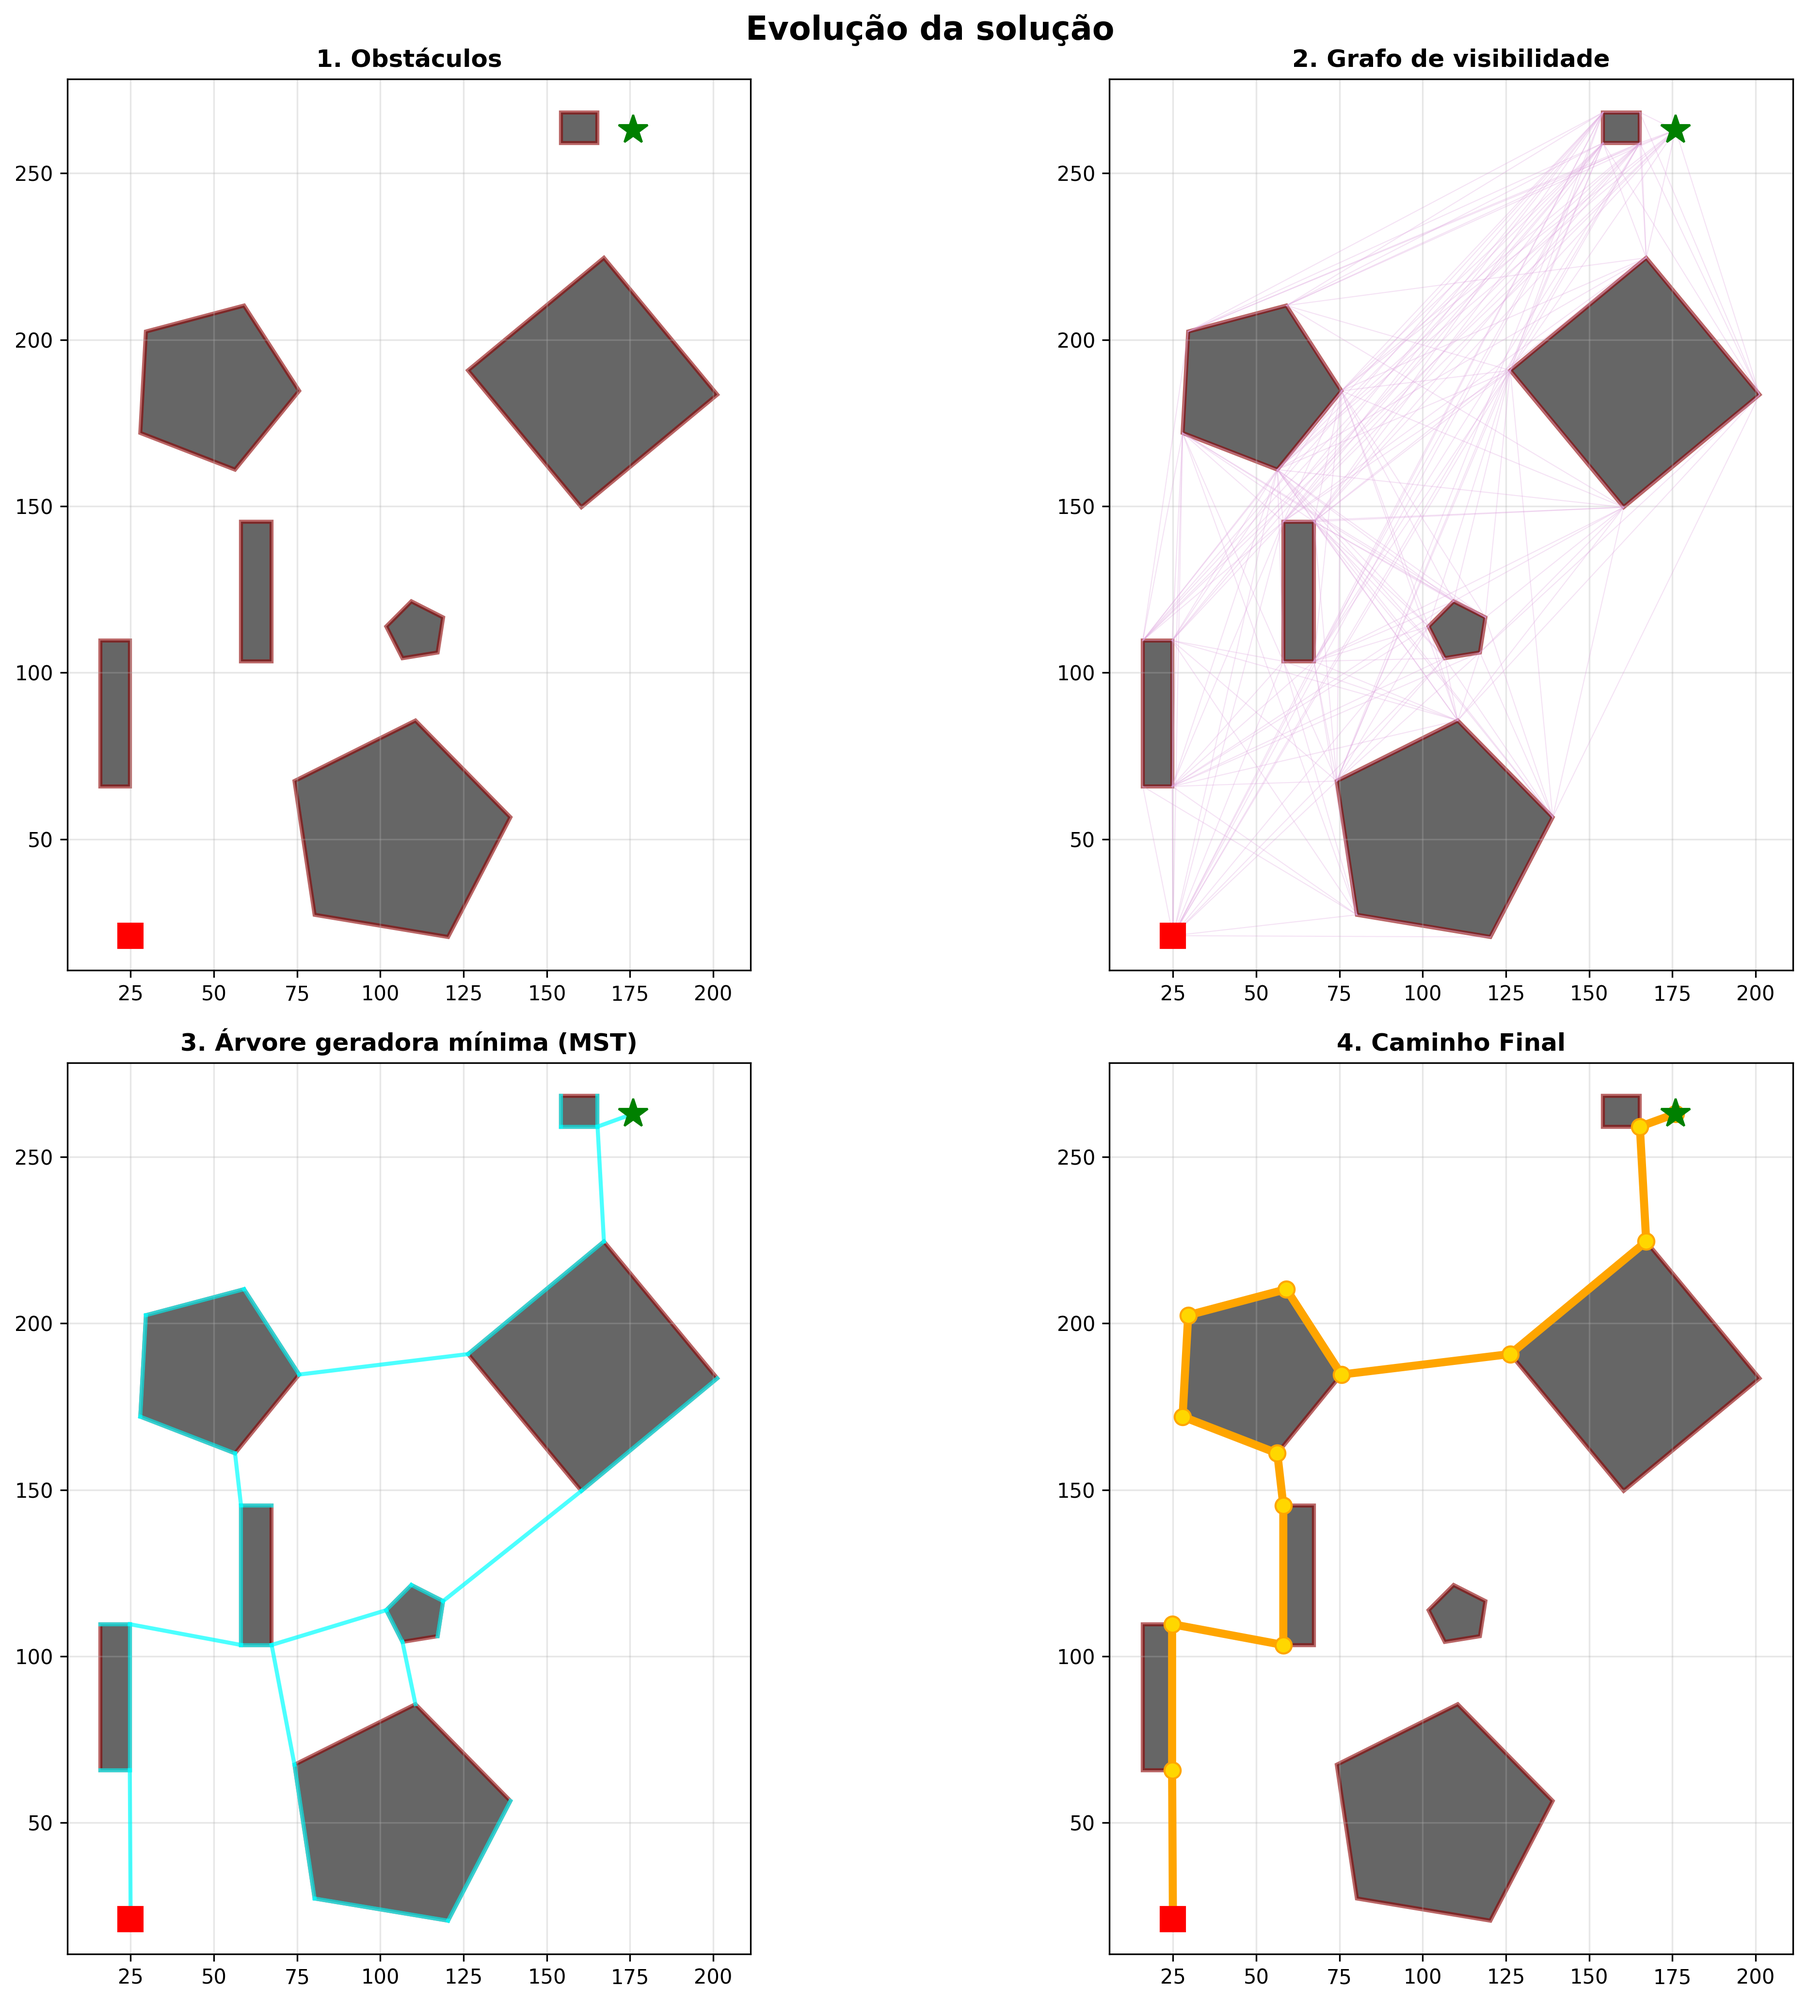
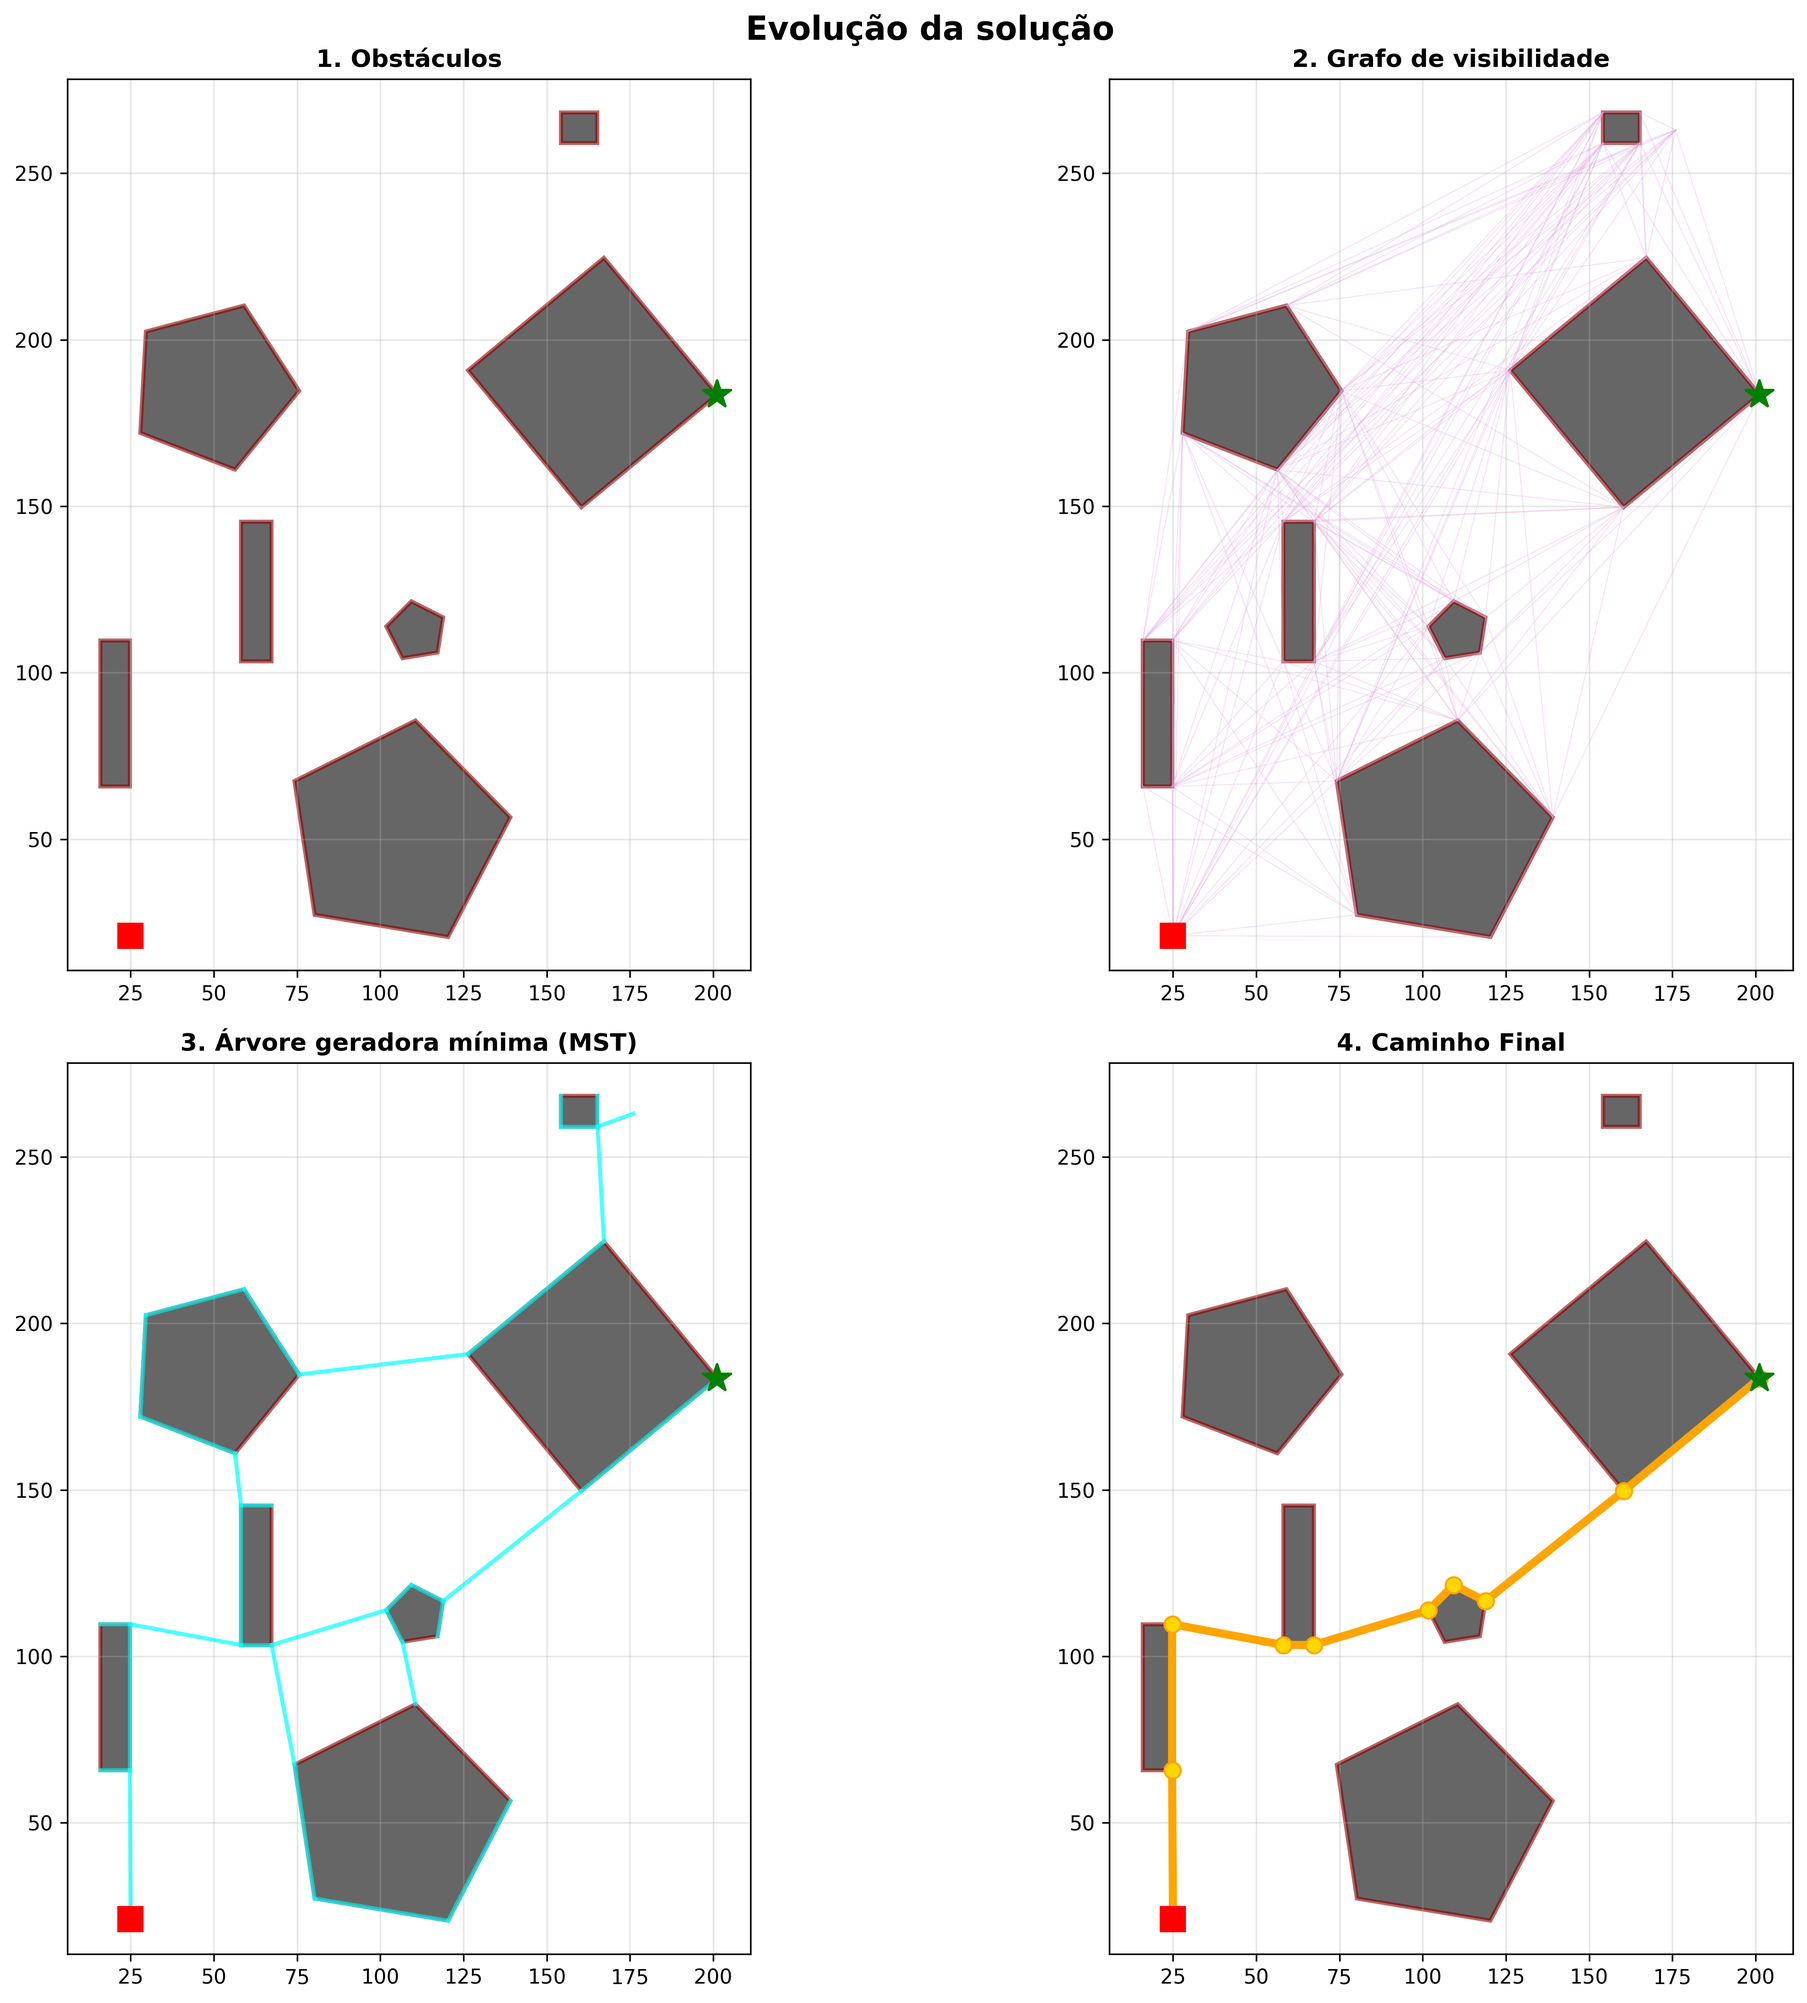
adicionando o VerticeMaisProximo, com alguns bugs

diff --git a/main.py b/main.py
@@ -1,67 +1,88 @@
-from Mapas.Leitura import read_file_map
+from Mapas.Leitura import read_file_map, Vertex
 from Mapas.GrafoVisibilidade import create_visibility_graph
 from Mapas.Plotar import plotar_mapa_completo, plotar_apenas_obstaculos, plotar_comparacao
 
 from Algoritmos.minimum_generator_tree import minimum_generator_tree, print_mgt
 from Algoritmos.search_in_tree import search_in_tree, print_path
+from Algoritmos.VerticeMaisProximo import vertice_mais_proximo, ler_posicao_usuario
+
+def escolher_modo_pontos():
+    print("ESCOLHA O MODO DE OPERAÇÃO")
+    print("1 - Usar pontos START e GOAL do arquivo")
+    print("2 - Inserir novos pontos START e GOAL")
+    
+    while True:
+        escolha = input("Digite sua escolha (1 ou 2): ").strip()
+        if escolha in ['1', '2']:
+            return escolha
+        print("Opção inválida! Digite 1 ou 2.")
 
 if __name__ == "__main__":
     archive = "Mapas\\ArquivoMapa.py"
     generated_map = read_file_map(archive)
 
     if generated_map:
-        print("Mapa carregado com sucesso!")
         print(generated_map)
         
-        print(f"\n--- Total de vértices: {len(generated_map.all_vertexs)} ---")
-        
-        print("\n--- Ponto Inicial ---")
-        print(generated_map.q_start)
-        
-        print("\n--- Ponto Final ---")
-        print(generated_map.q_goal)
-        
-        print(f"\n--- Total de Obstáculos: {len(generated_map.obstacles)} ---")
-        
         visibility_graph = create_visibility_graph(generated_map)
+        
+        modo = escolher_modo_pontos()
+        
+        if modo == '1':
+            start_vertex = generated_map.q_start
+            goal_vertex = generated_map.q_goal
+            
+        else:
+            pos_start = ler_posicao_usuario("\n→ PONTO INICIAL (START)")
+          
+            pos_goal = ler_posicao_usuario("\n→ PONTO FINAL (GOAL)")
+           
+            mgt_temp = minimum_generator_tree(visibility_graph, generated_map.q_start)
+            
+            start_vertex = vertice_mais_proximo(pos_start, mgt_temp)
+            goal_vertex = vertice_mais_proximo(pos_goal, mgt_temp)
+            
+            print(f"\nVértice mais próximo do START: {start_vertex}")
+            print(f"Vértice mais próximo do GOAL: {goal_vertex}")
+            
+            generated_map.q_start = start_vertex
+            generated_map.q_goal = goal_vertex
+
+        print(f"START: {generated_map.q_start}")
+        print(f"GOAL: {generated_map.q_goal}")
+        
         mgt = minimum_generator_tree(visibility_graph, generated_map.q_start)
-        print_mgt(mgt)
+        #print_mgt(mgt)
+        
         path_dots = []
-        #path_dots.append(generated_map.q_start)
         cost = search_in_tree(mgt, generated_map.q_start, generated_map.q_goal, path_dots)
-        print_path(path_dots)
-        print(f"Custo total do caminho: {cost:.2f}")
-        #deixei comentado o print pq tava ruim, mas ainda nao sei como melhorar
-        # print("\n--- Grafo de visibilidade (amostra) ---")
         
-        # v_start = generated_map.q_start
-        # if v_start in visibility_graph:
-        #     print(f"Vizinhos de {v_start}:")
-        #     for neighbor, cost in visibility_graph[v_start]:
-        #         print(f"{neighbor} ->  (custo: {cost:.2f})")
-        # else:
-        #     print(f"Ponto inicial {v_start} não tem vizinhos visíveis.")
+        if cost is not None:
+            print_path(path_dots)
+            print(f"\nCusto total do caminho: {cost:.2f}")
+        else:
+            print("\nNão foi possível encontrar um caminho entre os pontos!")
         
-    plotar_apenas_obstaculos(
-        mapa=generated_map, 
-        salvar=True, 
-        nome_arquivo='mapa_obstaculos.png'
-    )
-    
-    plotar_mapa_completo(
-        mapa=generated_map,
-        grafo=visibility_graph,
-        arvore=mgt,        
-        caminho=path_dots,
-        salvar=True,
-        nome_arquivo='mapa_completo.png'
-    )
-    
-    plotar_comparacao(
-        mapa=generated_map,
-        grafo=visibility_graph,
-        arvore=mgt,        
-        caminho=path_dots,
-        salvar=True,
-        nome_arquivo='mapa_comparacao.png'
-    )
+        plotar_apenas_obstaculos(
+            mapa=generated_map, 
+            salvar=True, 
+            nome_arquivo='mapa_obstaculos.png'
+        )
+        
+        plotar_mapa_completo(
+            mapa=generated_map,
+            grafo=visibility_graph,
+            arvore=mgt,        
+            caminho=path_dots,
+            salvar=True,
+            nome_arquivo='mapa_completo.png'
+        )
+        
+        plotar_comparacao(
+            mapa=generated_map,
+            grafo=visibility_graph,
+            arvore=mgt,        
+            caminho=path_dots,
+            salvar=True,
+            nome_arquivo='mapa_comparacao.png'
+        )

diff --git a/Algoritmos/VerticeMaisProximo.py b/Algoritmos/VerticeMaisProximo.py
@@ -1,0 +1,39 @@
+from Mapas.Leitura import Vertex
+import math
+
+def vertice_mais_proximo(posicao: tuple, arvore: dict) -> Vertex:
+    if not arvore:
+        raise ValueError("Árvore vazia!")
+    
+    x_pos, y_pos = posicao
+    min_distancia = float('inf')
+    vertice_proximo = None
+    
+    #percorre todos os vértices da árvore
+    for vertice in arvore.keys():
+        distancia = math.sqrt((vertice.x - x_pos)**2 + (vertice.y - y_pos)**2)
+        
+        if distancia < min_distancia:
+            min_distancia = distancia
+            vertice_proximo = vertice
+    
+    return vertice_proximo
+
+def ler_posicao_usuario(mensagem: str) -> tuple:
+    print(mensagem)
+    while True:
+        try:
+            entrada = input("Digite as coordenadas no formato 'x,y' (ex: 25,15): ")
+            x, y = map(float, entrada.strip().split(','))
+            return (x, y)
+        except ValueError:
+            print("Formato inválido! Use o formato 'x,y' com números.")
+            
+            
+            
+'''
+    ta considerando o start/goal anterior como um vertice, tem que arrumar
+    arrume para colisão também
+    na plotagem, tente rotacionar, ta ao contrário
+'''
+            
